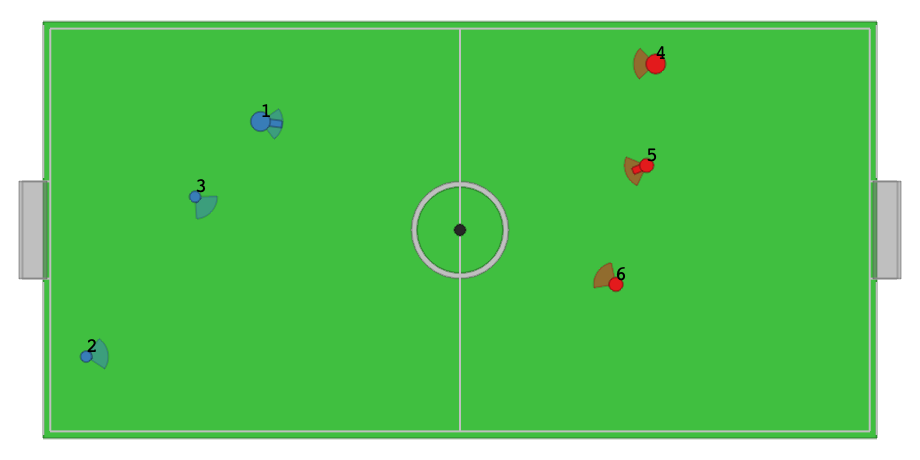
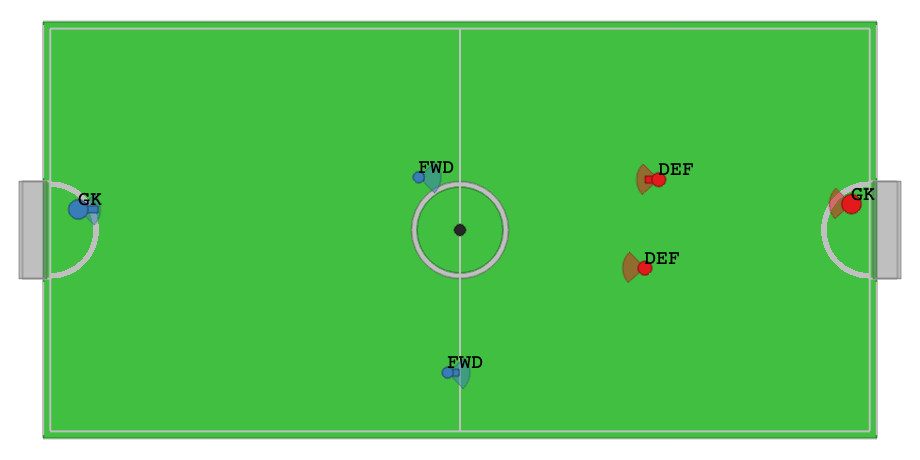
Added battefield env; added better football functionality.

diff --git a/src/bilevel_marl_bench/football.py b/src/bilevel_marl_bench/football.py
@@ -1,10 +1,13 @@
 """VMAS football with configurable player roles for both teams."""
 
+import math
+
 import torch
 from vmas.scenarios.football import Scenario
 from vmas.simulator.core import Agent, Sphere
 from vmas.simulator.dynamics.holonomic import Holonomic
 from vmas.simulator.dynamics.holonomic_with_rot import HolonomicWithRotation
+from vmas.simulator.utils import Color
 
 # Offsets from VMAS's standard player: (radius, u_multiplier, max_speed, shoot_multiplier).
 # Values from VMAS's physically different roles. Fix: upstream adds the goalkeeper's
@@ -14,6 +17,10 @@ ROLES = {
     "def": (0.0, 0.0, 0.0, 0.0),
     "fwd": (-0.005, 0.1, 0.05, -0.2),
 }
+
+# Spawn zones: each half split into 3 zones by depth from the centre line (fraction of the half).
+# Goalkeepers spawn in the D instead: a semicircle in front of goal, same radius as the centre circle.
+ZONES = {"fwd": (0, 1 / 3), "def": (1 / 3, 2 / 3)}
 
 
 class FootballScenario(Scenario):
@@ -44,15 +51,80 @@ class FootballScenario(Scenario):
             self._add_agent(world, "red", i, r) for i, r in enumerate(self.red_roles)
         ]
 
+    def reset_agents(self, env_index=None):
+        if self.spawn_in_formation:
+            return super().reset_agents(env_index)
+        n = 1 if env_index is not None else self.world.batch_dim
+        dev = self.world.device
+        half = self.pitch_length / 2 - self.agent_size  # centre line to goal line
+
+        def rand():
+            return torch.rand(n, device=dev)
+
+        for agents, roles, sign in (
+            (self.blue_agents, self.blue_roles, -1),
+            (self.red_agents, self.red_roles, 1),
+        ):
+            for agent, role in zip(agents, roles):
+                if role == "gk":  # uniform in the D, kept off the goal line by the keeper's radius
+                    rad = agent.shape.radius
+                    r = (self.goal_size / 2 - rad) * rand().sqrt()
+                    t = (rand() - 0.5) * torch.pi
+                    depth = half - rad - r * t.cos()
+                    y = r * t.sin()
+                else:  # uniform in the role's zone
+                    lo, hi = ZONES[role]
+                    depth = half * (lo + (hi - lo) * rand())
+                    y = (rand() - 0.5) * (self.pitch_width - 2 * (self.agent_size + agent.shape.radius))
+                agent.set_pos(torch.stack([sign * depth, y], dim=-1), batch_index=env_index)
+                if sign == 1:
+                    agent.set_rot(torch.tensor([torch.pi], device=dev), batch_index=env_index)
+
     def extra_render(self, env_index=0):
-        # The original draws shooting fans and numbers for blue only; draw them for both teams.
+        from vmas.simulator import rendering
+
+        # The original draws shooting fans for blue only (draw them for every shooting player)
+        # and numbers for blue only (hide them; role labels are drawn below instead).
         blue, red = self.blue_agents, self.red_agents
         self.blue_agents = [a for a in blue + red if a.action_script is None]
-        self.red_agents = []
+        self.red_agents = blue + red
         try:
-            return super().extra_render(env_index)
+            geoms = super().extra_render(env_index)
         finally:
             self.blue_agents, self.red_agents = blue, red
+
+        # Role labels, positioned like VMAS's number labels.
+        w, h = self.viewer_size
+        rx, ry = (w / h, 1) if w > h else (1, h / w)
+        for agent in blue + red:
+            x, y = agent.state.pos[env_index].tolist()
+            geoms.append(
+                rendering.TextLine(
+                    text=agent.role.upper(),
+                    font_size=15,
+                    x=x * w / (self.viewer_zoom**2 * rx * 2) + w / 2,
+                    y=y * h / (self.viewer_zoom**2 * ry * 2) + h / 2,
+                )
+            )
+
+        # The D: a half ring in front of each goal, styled like the centre circle.
+        r_out, r_in = self.goal_size / 2, self.goal_size / 2 - 0.02
+        x0 = self.pitch_length / 2 - self.agent_size
+        angles = [-math.pi / 2 + math.pi * i / 30 for i in range(31)]
+        d_geoms = []
+        for sign in (-1, 1):
+            for a, b in zip(angles, angles[1:]):
+                pts = [(r_out, a), (r_out, b), (r_in, b), (r_in, a)]
+                quad = rendering.make_polygon(
+                    [(sign * (x0 - r * math.cos(t)), r * math.sin(t)) for r, t in pts],
+                    draw_border=False,
+                )
+                quad.set_color(*Color.WHITE.value)
+                d_geoms.append(quad)
+        # Insert right after the pitch background, so fans and labels are drawn on top.
+        n_background = len(self.background_entities[0 if self._render_field else 3 :])
+        geoms[n_background:n_background] = d_geoms
+        return geoms
 
     def _add_agent(self, world, team, i, role):
         blue = team == "blue"
@@ -77,5 +149,6 @@ class FootballScenario(Scenario):
         agent.ball_within_angle = torch.zeros(world.batch_dim, device=world.device, dtype=torch.bool)
         agent.ball_within_range = torch.zeros(world.batch_dim, device=world.device, dtype=torch.bool)
         agent.shoot_force = torch.zeros(world.batch_dim, 2, device=world.device)
+        agent.role = role
         world.add_agent(agent)
         return agent

diff --git a/src/bilevel_marl_bench/combined_arms.py b/src/bilevel_marl_bench/combined_arms.py
@@ -51,9 +51,13 @@ class CombinedArms(_parallel_env):
             seed,
         )
         EzPickle.__init__(
-            self, red_melee, red_ranged, blue_melee, blue_ranged, map_size,
-            max_cycles, minimap_mode, extra_features, render_mode, seed, **reward_args,
+            self, red_melee=red_melee, red_ranged=red_ranged, blue_melee=blue_melee,
+            blue_ranged=blue_ranged, map_size=map_size, max_cycles=max_cycles,
+            minimap_mode=minimap_mode, extra_features=extra_features,
+            render_mode=render_mode, seed=seed, **reward_args,
         )
+
+    walls = set()  # Wall cells; formation columns touching them are skipped.
 
     def generate_map(self):
         w = h = self.map_size
@@ -61,10 +65,19 @@ class CombinedArms(_parallel_env):
         for team, counts in enumerate(self.counts):
             rows, columns = _formation(*counts)
             y0 = (h - 2 * rows) // 2
-            x0 = w // 2 - gap - 2 * len(columns) if team == 0 else w // 2 + gap
+            # Column x positions, outward from the centre, skipping columns that hit a wall.
+            step = -2 if team == 0 else 2
+            x = w // 2 - gap - 2 if team == 0 else w // 2 + gap
+            xs = []
+            while len(xs) < len(columns):
+                if not any((x, y0 + 2 * j) in self.walls for j in range(rows)):
+                    xs.append(x)
+                x += step
+            if team == 0:
+                xs.reverse()  # Original order: left team's first column is the outermost.
             pos = [[], []]
             for i, (t, k) in enumerate(columns):
-                pos[t] += [[x0 + 2 * i, y0 + 2 * j] for j in range(k)]
+                pos[t] += [[xs[i], y0 + 2 * j] for j in range(k)]
             for x, y in pos[0] + pos[1]:
                 if not (0 < x < w - 1 and 0 < y < h - 1):
                     raise ValueError(

diff --git a/src/bilevel_marl_bench/battlefield.py b/src/bilevel_marl_bench/battlefield.py
@@ -1,0 +1,25 @@
+"""MAgent2 battlefield (walls) with combined arms' melee/ranged units."""
+
+from .combined_arms import CombinedArms
+
+
+class Battlefield(CombinedArms):
+    metadata = {**CombinedArms.metadata, "name": "battlefield"}
+
+    def __init__(self, red_melee=6, red_ranged=6, blue_melee=6, blue_ranged=6, map_size=80, **kwargs):
+        super().__init__(
+            red_melee=red_melee, red_ranged=red_ranged, blue_melee=blue_melee,
+            blue_ranged=blue_ranged, map_size=map_size, **kwargs,
+        )
+
+    def generate_map(self):
+        # Wall layout copied from MAgent2 battlefield_v5.
+        w = h = self.map_size
+        walls = []
+        for y in [*range(10, 45), *range(50, h // 2 + 25)]:
+            walls += [(w // 2 - 5, y), (w // 2 - 4, y)]
+        for y in [*range(h // 2 - 25, h - 50), *range(h - 45, h - 10)]:
+            walls += [(w // 2 + 5, y), (w // 2 + 4, y)]
+        self.env.add_walls(pos=walls, method="custom")
+        self.walls = set(walls)
+        super().generate_map()

diff --git a/examples/battlefield.py b/examples/battlefield.py
@@ -1,0 +1,17 @@
+"""Random rollout in battlefield with custom melee/ranged counts per team."""
+
+from bilevel_marl_bench import make
+
+env = make(
+    "battlefield",
+    red_melee=8,
+    red_ranged=4,
+    blue_melee=4,
+    blue_ranged=8,
+    render_mode="human",
+)
+obs, infos = env.reset(seed=0)
+while env.agents:
+    actions = {a: env.action_space(a).sample() for a in env.agents}
+    obs, rewards, terminations, truncations, infos = env.step(actions)
+env.close()

diff --git a/src/bilevel_marl_bench/__init__.py b/src/bilevel_marl_bench/__init__.py
@@ -9,9 +9,9 @@ def make(name, **kwargs):
 
         return CombinedArms(**kwargs)
     if name == "battlefield":
-        from magent2.environments import battlefield_v5
+        from .battlefield import Battlefield
 
-        return battlefield_v5.parallel_env(**kwargs)
+        return Battlefield(**kwargs)
     if name == "football":
         from .football import FootballScenario
         from .vmas_parallel import VmasParallelEnv

diff --git a/README.md b/README.md
@@ -9,7 +9,7 @@ Multi-agent environments for testing bilevel strategies. Every environment is a 
 | Name | Based on | Changes |
 |---|---|---|
 | `combined_arms` | [MAgent2](https://magent2.farama.org/environments/combined_arms/) | Melee and ranged counts set per team |
-| `battlefield` | [MAgent2](https://magent2.farama.org/environments/battlefield/) | None |
+| `battlefield` | [MAgent2](https://magent2.farama.org/environments/battlefield/) | Melee and ranged units, counts set per team |
 | `football` | [VMAS](https://github.com/proroklab/VectorizedMultiAgentSimulator) | Player roles set per team |
 | `paintball` | [Melting Pot](https://github.com/google-deepmind/meltingpot) via [Shimmy](https://shimmy.farama.org/environments/meltingpot/) | None |
 
@@ -50,6 +50,18 @@ env = make("combined_arms", red_melee=2, red_ranged=3, blue_melee=3, blue_ranged
 
 Defaults are 45 melee and 36 ranged per team.
 
+### Battlefield
+
+<p align="center">
+  <img src="assets/battlefield.png" width="360" alt="Battlefield">
+</p>
+
+```python
+env = make("battlefield", red_melee=8, red_ranged=4, blue_melee=4, blue_ranged=8)
+```
+
+Combined arms units on battlefield's walled map. Defaults are 6 melee and 6 ranged per team.
+
 ### Football
 
 <p align="center">
@@ -62,6 +74,8 @@ env = make("football", blue_roles={"gk": 1, "fwd": 2}, red_roles={"gk": 1, "def"
 
 Roles are `gk`, `def` and `fwd`. Defaults are one of each per team. Both teams are agents by default; pass `ai_blue_agents=True` or `ai_red_agents=True` to let VMAS's built-in AI control a team.
 
+Players spawn by role: goalkeepers in the D, defenders in the middle third of their half, forwards in the third next to the centre line.
+
 The fan in front of each player is its shooting zone: the player can shoot when the ball is inside it (the fan turns pink).
 
 ## Examples
@@ -69,5 +83,6 @@ The fan in front of each player is its shooting zone: the player can shoot when 
 ```bash
 python examples/random_rollout.py   # all environments
 python examples/combined_arms.py    # combined arms with custom team composition
+python examples/battlefield.py      # battlefield with custom team composition
 python examples/football.py         # football with custom roles per team
 ```
